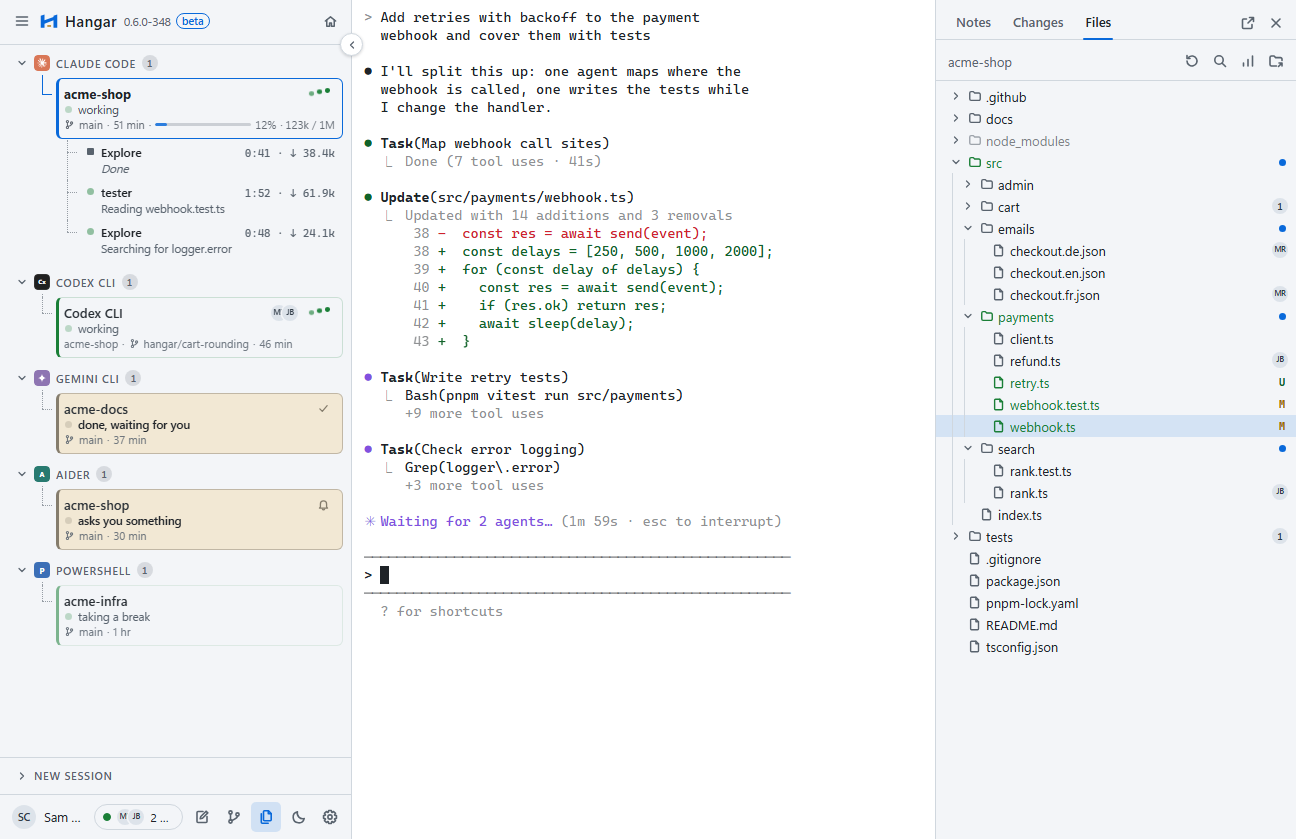
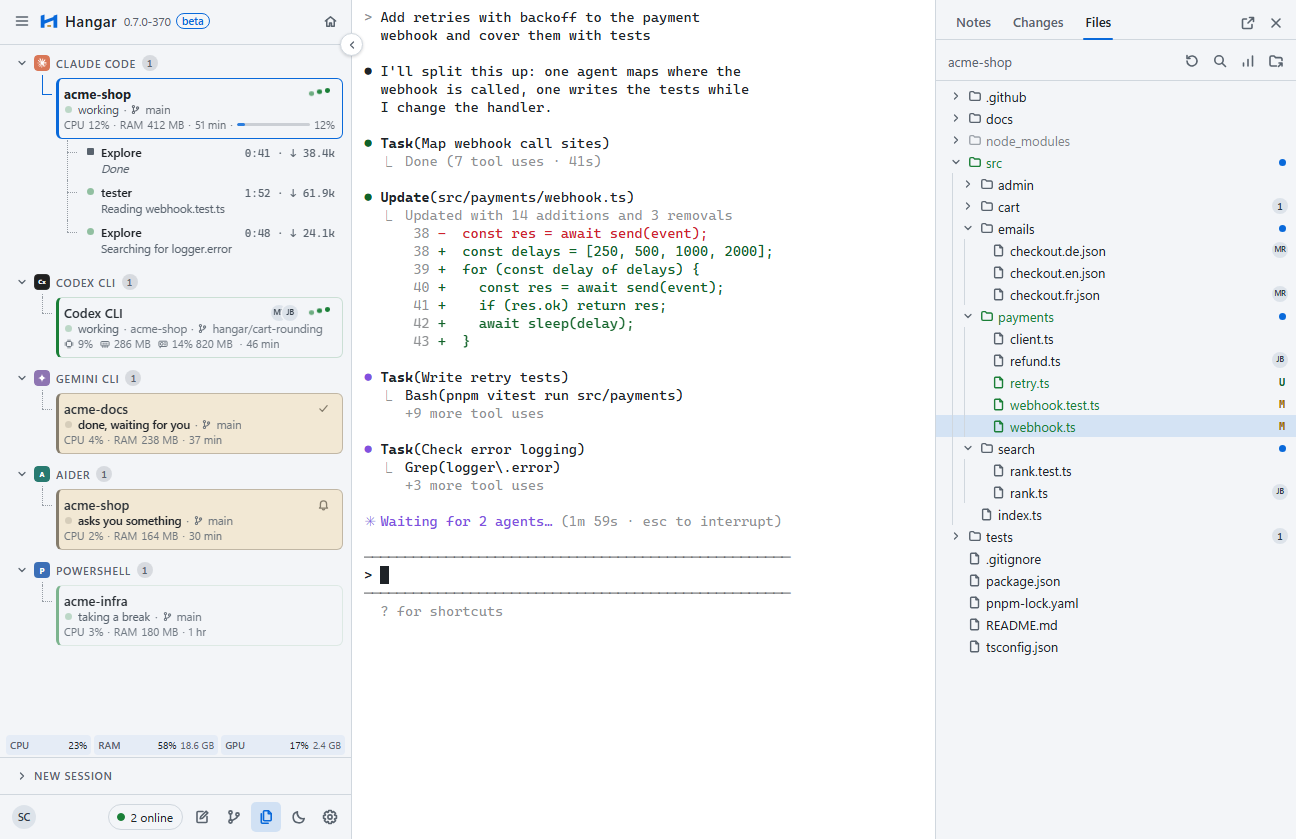
chore: Version 0.7.0-370
Release 0.7.0 with the dated changelog, the refreshed README screenshots and the
screenshot scenes that open the shared notes and show steady session load.

diff --git a/tools/readme-shots/mock.ts b/tools/readme-shots/mock.ts
@@ -382,6 +382,10 @@ function keepTicking(sessionId: number, start: number, frameOf: (s: number, f: n
 const sessions = new Map<number, Record<string, unknown>>();
 let nextSessionId = 0;
 
+/** CPU share and resident memory (MB) per program, for the session rows. */
+const RESOURCE_CPU: Record<string, number> = { claude: 12, codex: 9, gemini: 4, aider: 2 };
+const RESOURCE_MB: Record<string, number> = { claude: 412, codex: 286, gemini: 238, aider: 164 };
+
 function createSession(args: Args): unknown {
   const id = ++nextSessionId;
   const profileId = typeof args.profileId === "string" ? args.profileId : "";
@@ -953,6 +957,27 @@ const handlers: Record<string, (args: Args) => unknown> = {
   team_session_states: () => undefined,
   configure_claims: () => null,
   claims_snapshot: () => claimsSnapshot,
+  // Steady load numbers so every session row shows CPU, RAM and, for Codex, the GPU.
+  session_resources: () =>
+    [...sessions.entries()].map(([id, info]) => {
+      const program = typeof info.profileId === "string" ? info.profileId : "";
+      return {
+        id,
+        cpu: RESOURCE_CPU[program] ?? 3,
+        memory: (RESOURCE_MB[program] ?? 180) * 1024 * 1024,
+        gpu: program === "codex" ? 14 : null,
+        gpuMemory: program === "codex" ? 820 * 1024 * 1024 : null,
+        outlier: false,
+      };
+    }),
+  system_usage: () => ({
+    cpu: 23,
+    memory: 58,
+    gpu: 17,
+    memoryUsed: 18.6 * 1024 ** 3,
+    memoryTotal: 32 * 1024 ** 3,
+    gpuMemory: 2.4 * 1024 ** 3,
+  }),
   // Features these scenes do not show (gates): nothing to report.
   profile_path: () => null,
   configure_gate: () => null,

diff --git a/README.md b/README.md
@@ -34,7 +34,7 @@ your own accounts, on your own machine. The desktop app is open source under the
 
 <picture>
   <source media="(prefers-color-scheme: light)" srcset="docs/images/hangar-light.png">
-  <img alt="Hangar with Claude Code, Codex CLI in its own worktree and Gemini CLI in resized split panes; the sidebar shows each session's state, Claude Code's sub-agents and context meter, Aider asking a question and two teammates online" src="docs/images/hangar-dark.png">
+  <img alt="Hangar with Claude Code, Codex CLI in its own worktree and Gemini CLI in resized split panes; the sidebar shows each session's state, folder, branch and CPU, memory and GPU use, Claude Code's sub-agents and context meter, Aider asking a question and two teammates online" src="docs/images/hangar-dark.png">
 </picture>
 
 ## Features
@@ -186,7 +186,7 @@ your own accounts, on your own machine. The desktop app is open source under the
     <td width="50%" valign="top">
       <picture>
         <source media="(prefers-color-scheme: light)" srcset="docs/images/hangar-notes-light.png">
-        <img alt="The notes panel beside a terminal, with encrypted notes shared in the repository above notes kept only on this computer" src="docs/images/hangar-notes-dark.png">
+        <img alt="The notes panel beside a terminal on its Shared side, listing the notes kept encrypted in the repository, with a switch to the private notes" src="docs/images/hangar-notes-dark.png">
       </picture>
       <br><sub>Keep notes private or share them encrypted with the repository.</sub>
     </td>
